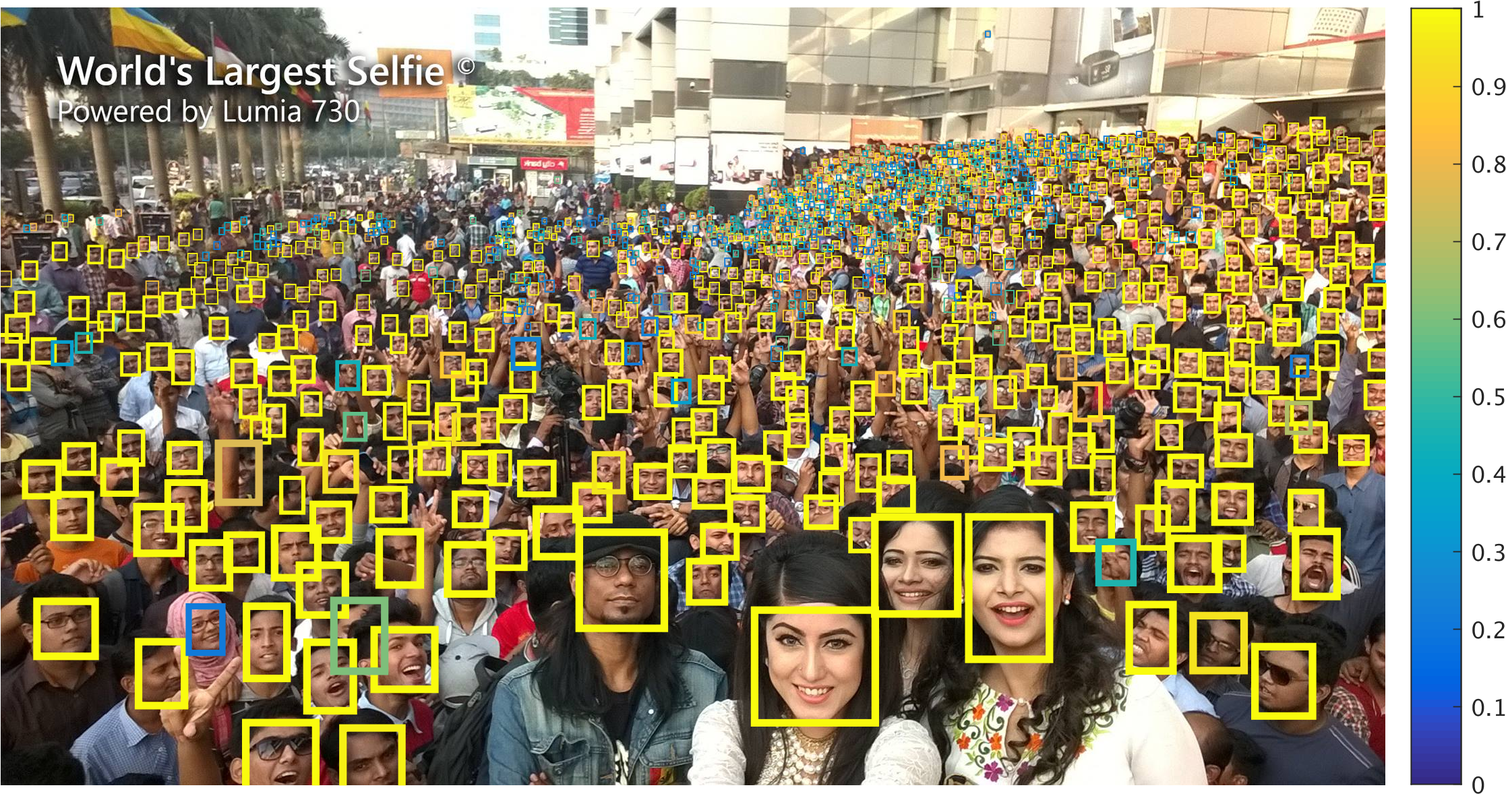
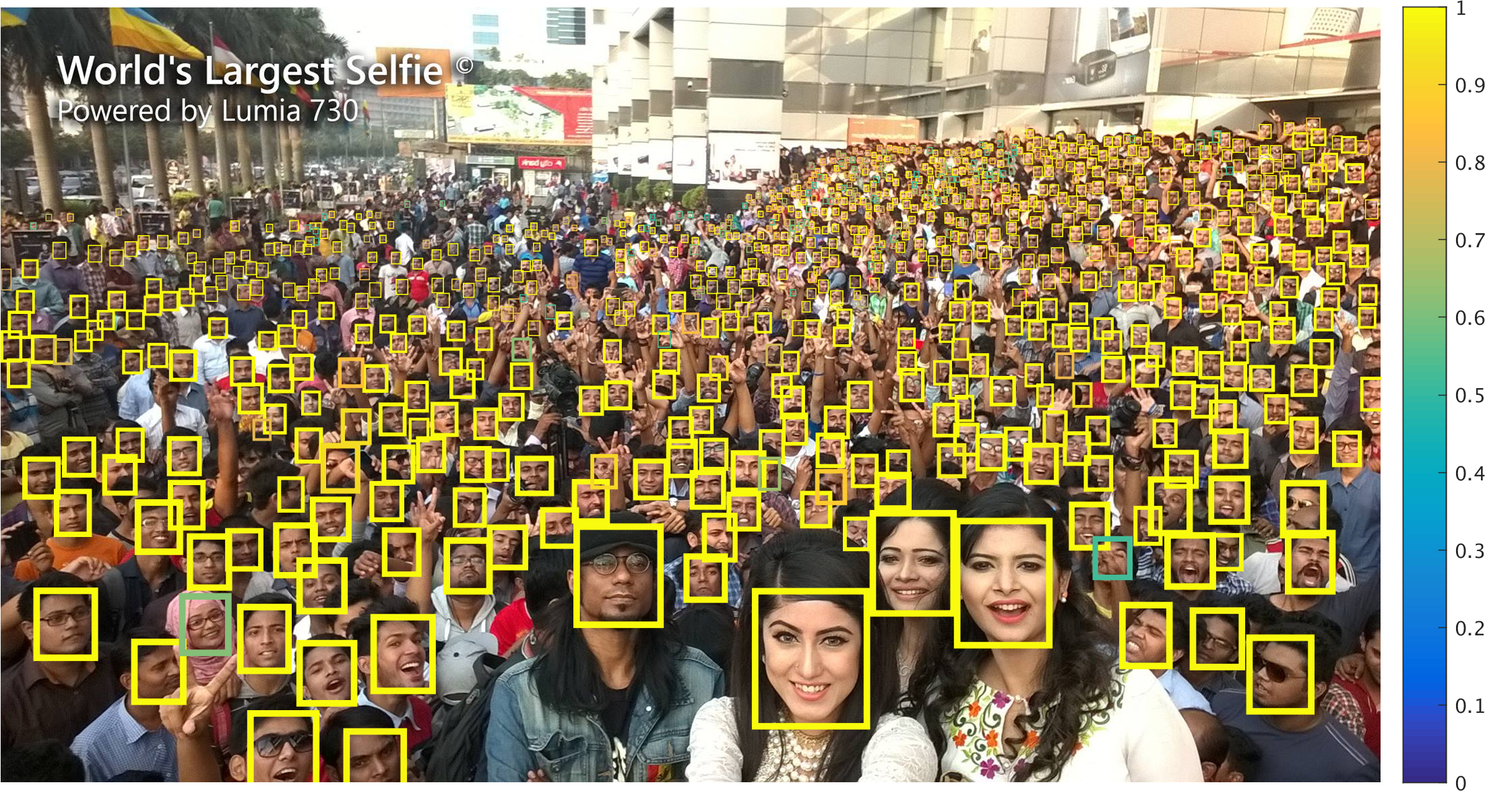
update demo: clamp detection near border instead of ignoring

diff --git a/minimal_demo.m b/minimal_demo.m
@@ -21,7 +21,7 @@ end
 use_gpu = true;
 
 % setup testing threshold
-thresh = 0.2;
+thresh = 0.5;
 nmsthresh = 0.1;
 
 % loadng pretrained model (and some final touches) 
@@ -100,12 +100,11 @@ for f = dir('demo/data/*')'
 
         % filter out bounding boxes cross boundary 
         x1 = cx - cw/2; y1 = cy - ch/2;
-        x2 = cx + cw/2; y2 = cy + ch/2; 
-        valid = find(x1 > 0 & y1 > 0 & x2 <= img_w & y2 <= img_h);
-        idx = idx(valid);
-        cy = cy(valid); cx = cx(valid); ch = ch(valid); cw = cw(valid);
-        x1 = x1(valid); y1 = y1(valid); x2 = x2(valid); y2 = y2(valid);
-        fc = fc(valid);
+        x2 = cx + cw/2; y2 = cy + ch/2;
+        x1 = max(1, min(x1, img_w));
+        y1 = max(1, min(y1, img_h));
+        x2 = max(1, min(x2, img_w));
+        y2 = max(1, min(y2, img_h));
 
         % extract bounding box refinement
         Nt = size(clusters, 1); 
